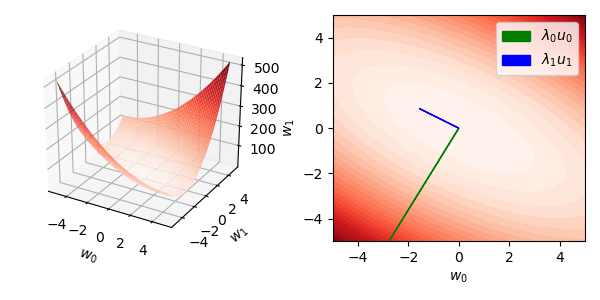
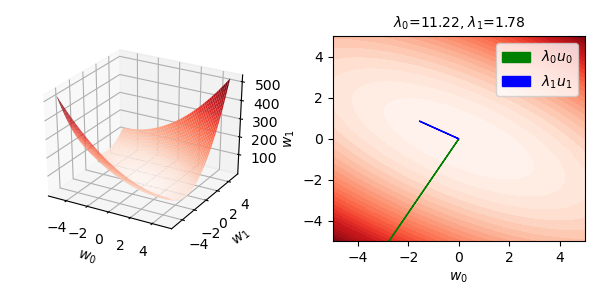
resize images

diff --git a/src/18_quadratic_form.py b/src/18_quadratic_form.py
@@ -46,7 +46,9 @@ def plot_QF_surface(Q, fn=''):
     eigvec0 = ax2.arrow(0, 0, eigvals[0]*eigvecs[0, 0], eigvals[0]*eigvecs[1, 0], color='green', label=f'$\lambda_0 u_0$')
     eigvec1 = ax2.arrow(0, 0, eigvals[1]*eigvecs[0, 1], eigvals[1]*eigvecs[1, 1], color='blue',  label=f'$\lambda_1 u_1$')
     ax2.legend([eigvec0, eigvec1], [f'$\lambda_0 u_0$', f'$\lambda_1 u_1$'])
-    
+    ax2.set_title(f'$\lambda_0$={eigvals[0]:.2f}, $\lambda_1$={eigvals[1]:.2f}', fontsize=10)
+
+
     fig.tight_layout()
     plt.savefig(fn)
     # plt.show() # can move 3d plot around

diff --git a/src/10_solve_triangular.py b/src/10_solve_triangular.py
@@ -25,7 +25,7 @@ for j in pow_range:
 
 
 # plot
-fig, ax = plt.subplots(1, 1, figsize=(6, 5))
+fig, ax = plt.subplots(1, 1, figsize=(4, 4))
 
 plt.scatter(pow_range, inv_times, marker='o', edgecolors='k', label='np.linalg.inv')
 plt.scatter(pow_range, tri_times, marker='o', edgecolors='k', label='sp.linalg.solve_triangular')

diff --git a/src/10_projection.py b/src/10_projection.py
@@ -34,4 +34,5 @@ ax.plot([Ax[0], b[0]],
 
 print('(Ax - b) @ Ax =', (Ax - b) @ Ax )
 plt.legend()
+plt.tight_layout()
 plt.savefig('../img/10_projection.png')

diff --git a/notes.md b/notes.md
@@ -858,7 +858,7 @@ Thus, $\text{rank } \bold A \bold A^\top = \text{rank }\bold A = r.$
   <br>
 
   <p align="center">
-      <img src="img/10_projection.png" title="drawing" width=40% />
+      <img src="img/10_projection.png" title="drawing" width=60% />
   </p> 
 
   <br>
@@ -948,7 +948,7 @@ Thus, $\text{rank } \bold A \bold A^\top = \text{rank }\bold A = r.$
   <br>
 
   <p align="center">
-  <img src="img/10_solve_triangular.png" title="drawing" width="50%" />
+  <img src="img/10_solve_triangular.png" title="drawing"/>
 
   <b>Figure.</b> Wall time for computing the inverse of a full (blue) and upper triangular (orange) randomly generated n-by-n matrix. 
   </p> 
@@ -1282,30 +1282,31 @@ Thus, $\text{rank } \bold A \bold A^\top = \text{rank }\bold A = r.$
   
 <br>
 
-* **Code demo: principal axes of quadratic forms.** In `18_quadratic_form.py`, we plot the principal axes of each matrix (symmetrized) in the above figure except the upper right. The results are shown below. We weigh the eigenvectors with the corresponding eigenvalues which indicates the rate of energy increase along that direction (or decrease if the eigenvalue is negative). Note that $\lambda_0$ (max increase) $\geq$ $\lambda_1$ (max decrease).
+* **Code demo: principal axes of quadratic forms.** In `18_quadratic_form.py`, we plot the principal axes of each matrix (symmetrized) in the above figure except the upper right. The results are shown below. We weigh the eigenvectors with the corresponding eigenvalues which indicates the rate of energy increase along that direction (or decrease if the eigenvalue is negative).
     
   <br>
 
   <p align="center">
   <center> 
   
-  **Definite** (green positive, blue positive)
+  **Definite** 
   <br>
   <img src="img/18_definiteQF.png">
   
   <br>
 
-  **Semidefinite** (green positive, blue zero)
+  **Semidefinite**
   <br>
   <img src="img/18_semidefiniteQF.png">
 
-  **Indefinite** (green positive, blue negative)
+  <br>
+
+  **Indefinite**
   <br>
   <img src="img/18_indefiniteQF.png">
 
   </center>
   </p>
-
 
 
 <br>
